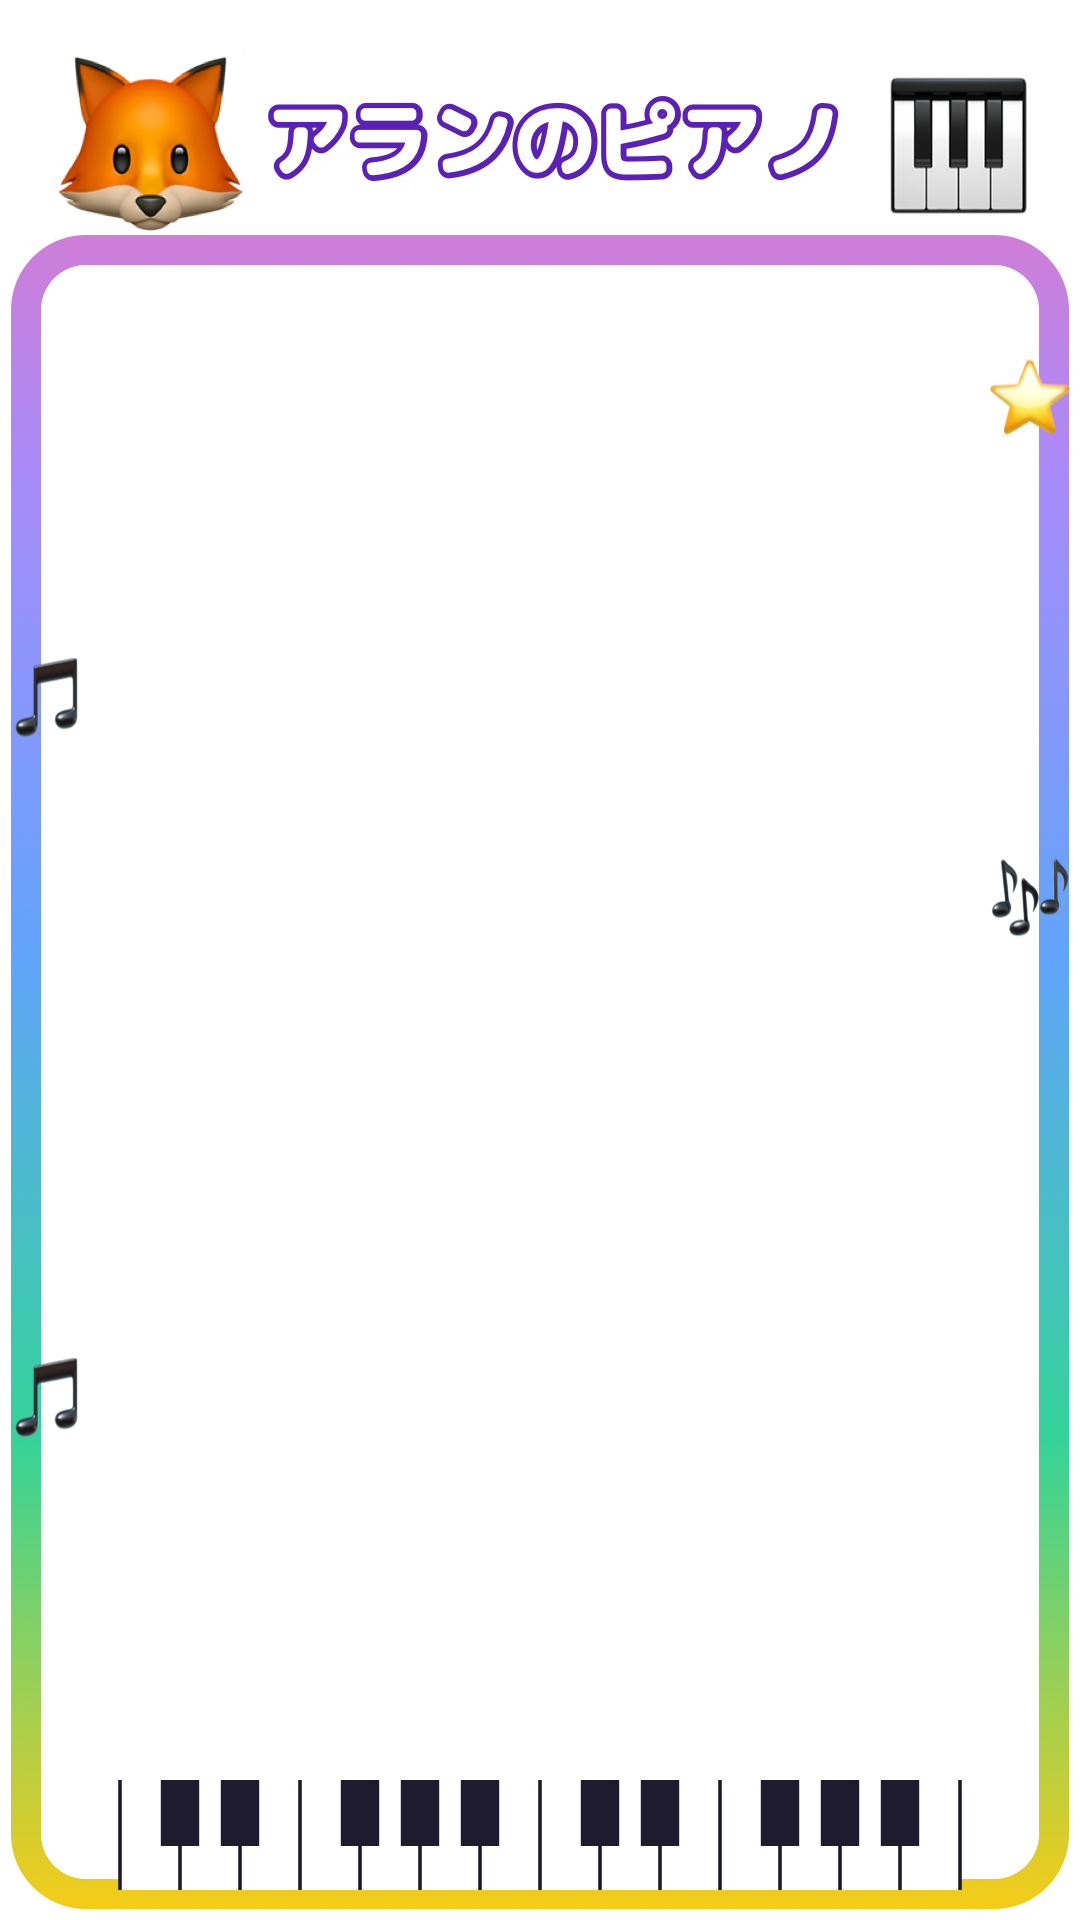
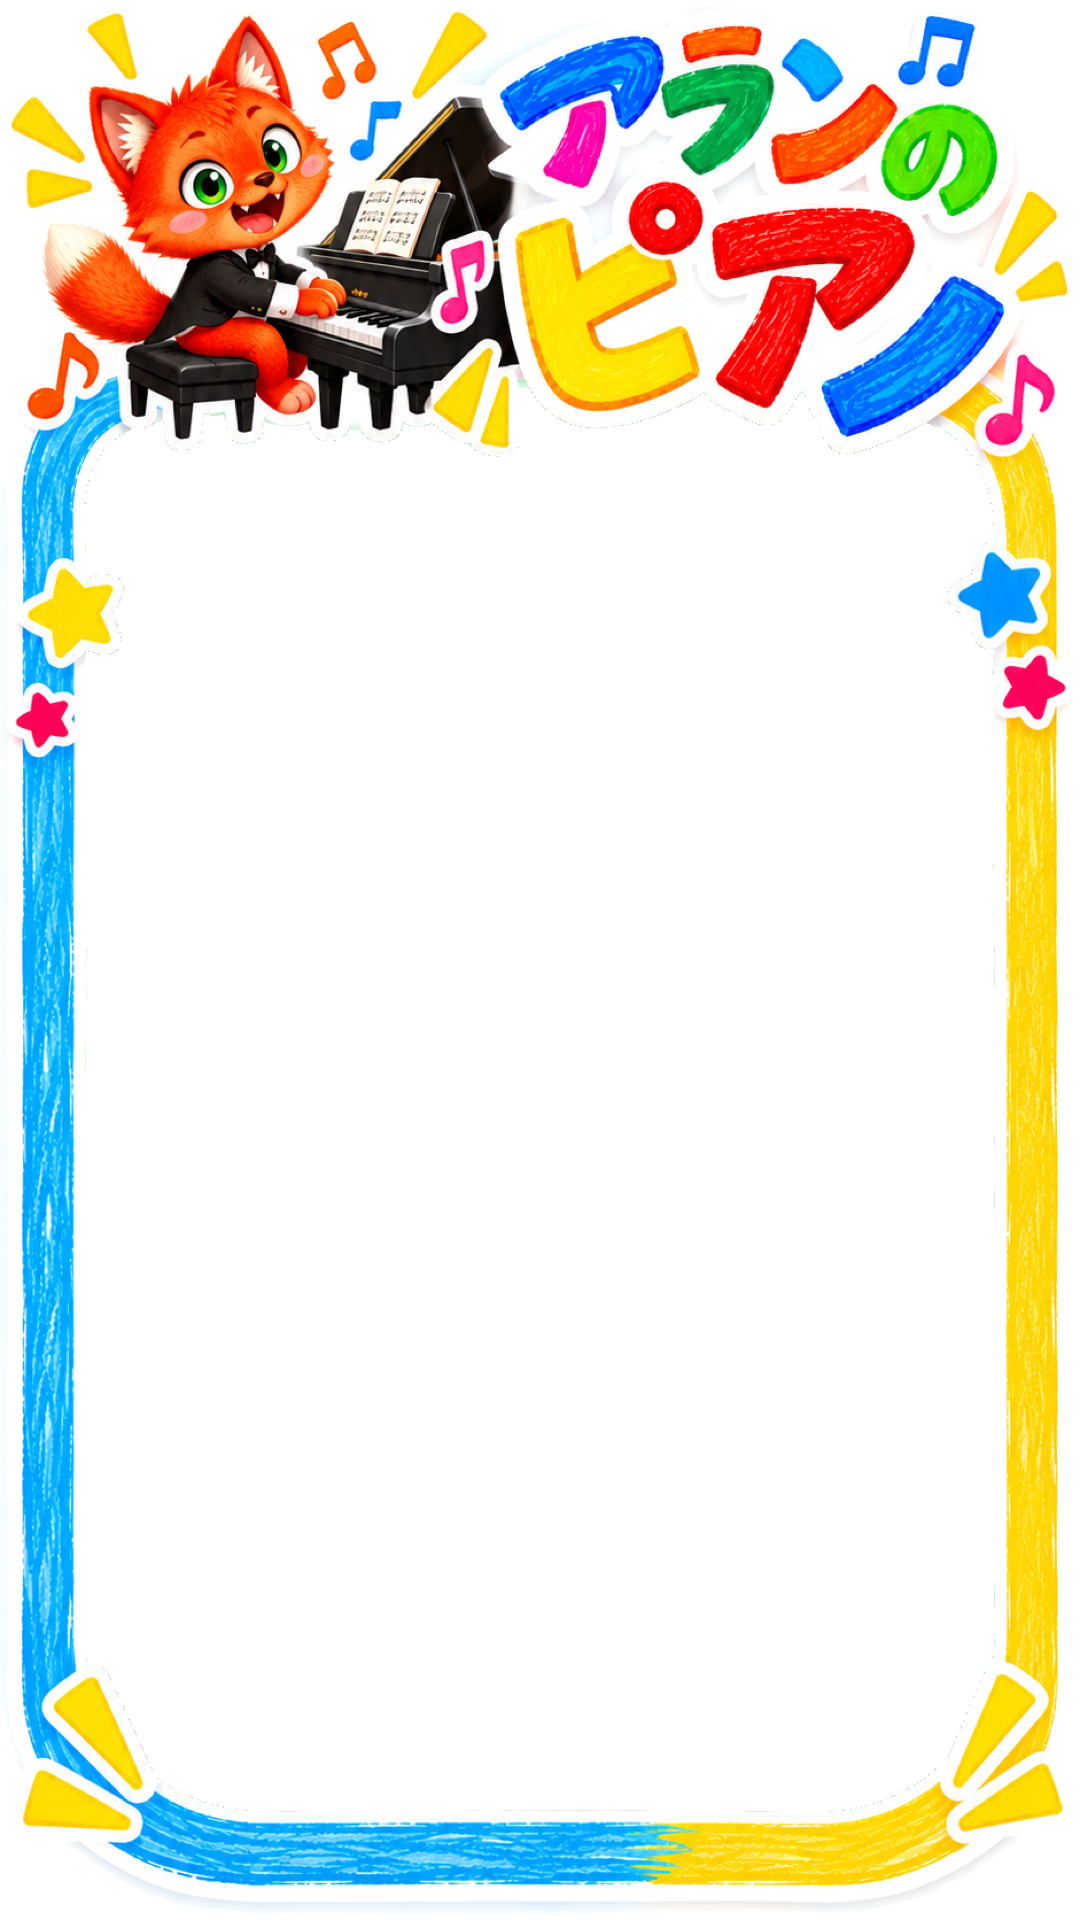
feat(piano): わくをピアノ版に、稽古のあとの背景を音楽ホールに、ほかは空手の絵を共有
- わく: 新しい元画像 tools/decor-src-piano/frame-green.png を make-decor.swift で
  アルファ抜き → public-piano/images/decor-frame.png (1080x1920)
- 練習のあとの画面: public-piano/backgrounds/done.jpg（3匹とグランドピアノ）
- キャラクター6枚・アラン・バナーは空手版をそのまま使う（public-piano から削除し、
  make-piano-placeholders.swift の shared に登録。再実行しても作り直さない）
- 仮のままなのは victory_trophy.jpg とアイコン類のみ

Changed region(s): [[0.0, 0.0, 1.0, 1.0]]

diff --git a/karate-trainer/tools/make-piano-placeholders.swift b/karate-trainer/tools/make-piano-placeholders.swift
@@ -26,6 +26,17 @@ func isPlaceholder(_ rel: String) -> Bool {
     !FileManager.default.fileExists(atPath: out.appendingPathComponent(rel).path) || made.contains(rel)
 }
 
+/// Paths the piano app deliberately takes from the karate art: nothing is
+/// written to public-piano/, so vite.config.ts falls through to public/.
+/// 2026-09-20: the user chose this for the three characters and for アラン and
+/// バナー. わく is NOT here — the piano app has its own (tools/decor-src-piano).
+let shared: Set<String> = [
+    "characters/alan.jpg", "characters/alan_cheer.jpg",
+    "characters/leo.jpg", "characters/leo_cheer.jpg",
+    "characters/izzy.jpg", "characters/izzy_cheer.jpg",
+    "images/decor-icon.png", "images/decor-banner.png",
+]
+
 for f in ["MPLUSRounded1c-ExtraBold.ttf"] {
     CTFontManagerRegisterFontsForURL(pub.appendingPathComponent("fonts/\(f)") as CFURL, .process, nil)
 }
@@ -115,6 +126,7 @@ func sprinkle(_ w: CGFloat, _ h: CGFloat, count: Int, size: CGFloat, alpha: CGFl
 }
 
 func save(_ rep: NSBitmapImageRep, _ rel: String, to base: URL = out, track: Bool = true) {
+    if track && shared.contains(rel) { print("share \(rel) (karate art)"); return }
     if track && !isPlaceholder(rel) { print("keep  \(rel) (real art)"); return }
     let url = base.appendingPathComponent(rel)
     try! FileManager.default.createDirectory(at: url.deletingLastPathComponent(), withIntermediateDirectories: true)

diff --git a/karate-trainer/tools/decor-src-piano/README.md b/karate-trainer/tools/decor-src-piano/README.md
@@ -1,0 +1,12 @@
+# ピアノのかざりの元画像
+
+`public-piano/images/decor-*.png` の元です。空手版（`decor-src/`）と同じ作り方で、
+緑背景／白背景のまま置いてあります。作り直すときはリポジトリのルートから:
+
+```
+swift karate-trainer/tools/make-decor.swift karate-trainer/tools/decor-src-piano/frame-green.png frame karate-trainer/public-piano/images/decor-frame.png 1080 1920
+```
+
+ここに無いかざり（アラン・バナー）は空手版をそのまま使っています。
+ピアノ版を作ったら、同じ名前・同じ大きさで `public-piano/images/` に置き、
+`tools/make-piano-placeholders.swift` の `shared` からその行を消してください。
